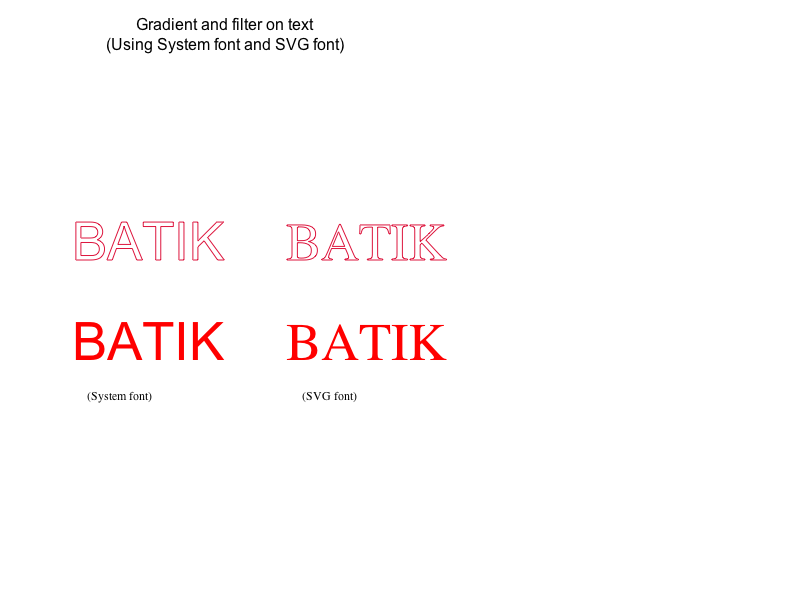
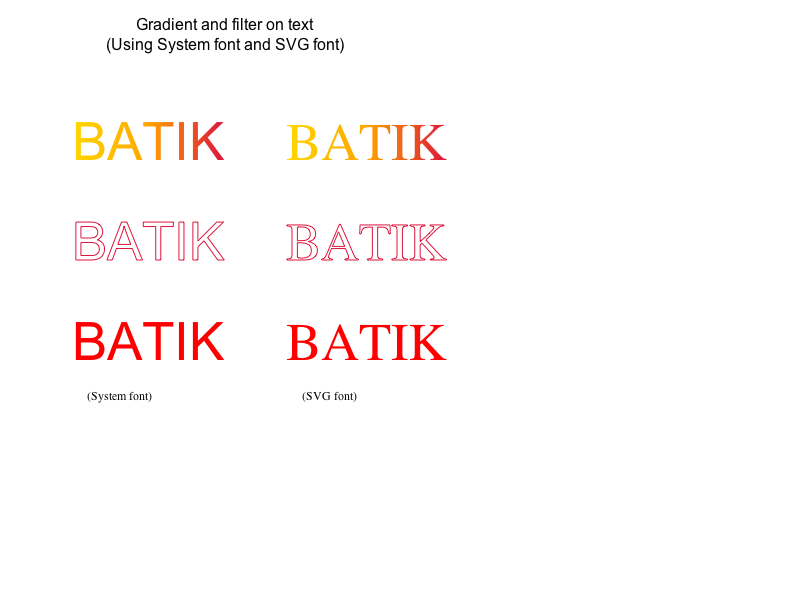
Reviewed by Oliver. Fix regression: gradient on fill of text works again!
git-svn-id: https://svn.webkit.org/repository/webkit/trunk@26387 268f45cc-cd09-0410-ab3c-d52691b4dbfc

Changed region(s): [[0.3438, 0.21, 0.5625, 0.27], [0.0938, 0.18, 0.2812, 0.27]]

diff --git a/WebCore/platform/graphics/svg/cg/SVGPaintServerGradientCg.cpp b/WebCore/platform/graphics/svg/cg/SVGPaintServerGradientCg.cpp
@@ -175,10 +175,7 @@ void SVGPaintServerGradient::teardown(GraphicsContext*& context, const RenderObj
     }
 
     if ((type & ApplyToFillTargetType) && style->svgStyle()->hasFill()) {
-        // workaround for filling the entire screen with the shading in the case that no text was intersected with the clip
-        if (!isPaintingText || (object->width() > 0 && object->height() > 0))
-            CGContextDrawShading(contextRef, shading);
-
+        CGContextDrawShading(contextRef, shading);
         context->restore();
     }
 
